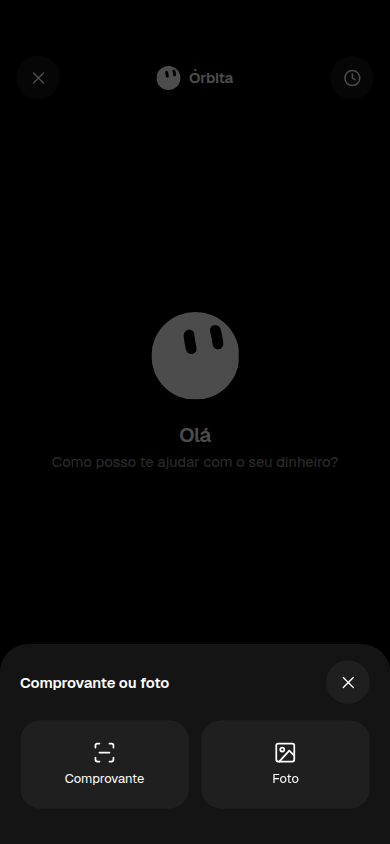
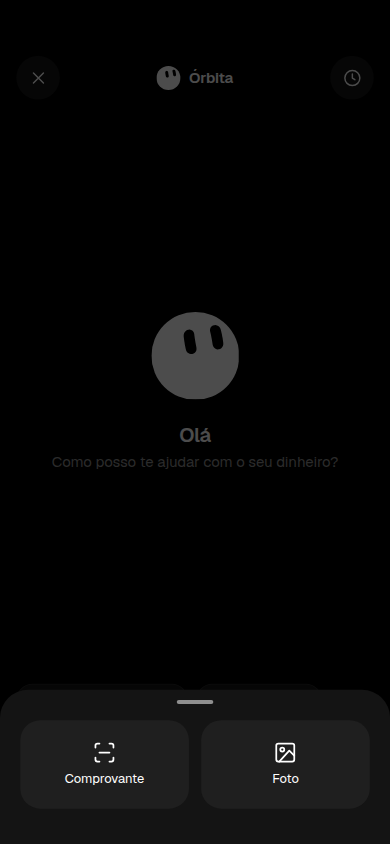
fix(mobile): a folha do chat só tem a barrinha
O X saiu. A barrinha sobe o painel ou, puxada para baixo, fecha.

Changed region(s): [[0.0308, 0.8009, 0.4308, 0.8318], [0.8308, 0.7701, 0.9538, 0.8318], [0.7077, 0.8934, 0.7692, 0.9242]]

diff --git a/apps/mobile/src/features/chat/ChatView.tsx b/apps/mobile/src/features/chat/ChatView.tsx
@@ -1,9 +1,10 @@
 import { formatBRL } from "@orbita/core";
-import { chart, colors, radius, spacing } from "@orbita/tokens";
-import { useState } from "react";
-import { Pressable, ScrollView, TextInput, View } from "react-native";
+import { chart, colors, layout, radius, spacing } from "@orbita/tokens";
+import { type ComponentRef, useCallback, useEffect, useRef, useState } from "react";
+import { Modal, Pressable, ScrollView, TextInput, View } from "react-native";
+import { useSafeAreaInsets } from "react-native-safe-area-context";
 import { percentOf } from "../../lib/format.ts";
-import { Icon, IconButton, type IconName, OrbitaAvatar, Screen, Sheet, Text } from "../../ui/index.ts";
+import { Icon, IconButton, type IconName, OrbitaAvatar, Screen, Text } from "../../ui/index.ts";
 import type { MonthRow } from "./reply.ts";
 
 const SUGGESTIONS = [
@@ -302,7 +303,15 @@ function AttachChoice({ icon, label, onPress }: { icon: IconName; label: string;
 	);
 }
 
-/** Folha de baixo. Os dois botões pedem o arquivo; o tamanho segue o anexo do Grok. */
+const SHEET_LIFT = 180;
+const SHEET_DISMISS = 72;
+
+function pageYOf(event: Event): number | null {
+	if ("pageY" in event && typeof event.pageY === "number") return event.pageY;
+	return null;
+}
+
+/** Folha de baixo, sem o X: a barrinha sobe ou desce o painel e, puxada para baixo, fecha. */
 function AttachSheet({
 	visible,
 	onClose,
@@ -312,15 +321,132 @@ function AttachSheet({
 	onClose: () => void;
 	onChoose: (kind: "receipt" | "photo") => void;
 }) {
+	const insets = useSafeAreaInsets();
+	const rest = useRef(0);
+	const [offset, setOffset] = useState(0);
+	const onCloseRef = useRef(onClose);
+	onCloseRef.current = onClose;
+	useEffect(() => {
+		if (visible) return;
+		rest.current = 0;
+		setOffset(0);
+	}, [visible]);
+	const drag = useRef({ y: 0, last: 0, time: 0, velocity: 0, active: false });
+	const begin = (pageY: number) => {
+		drag.current = { y: pageY, last: pageY, time: Date.now(), velocity: 0, active: true };
+	};
+	const slide = (pageY: number) => {
+		if (!drag.current.active) return;
+		const now = Date.now();
+		drag.current.velocity = (pageY - drag.current.last) / Math.max(1, now - drag.current.time);
+		drag.current.last = pageY;
+		drag.current.time = now;
+		setOffset(Math.min(SHEET_LIFT, rest.current - (pageY - drag.current.y)));
+	};
+	const end = () => {
+		if (!drag.current.active) return;
+		drag.current.active = false;
+		const next = rest.current - (drag.current.last - drag.current.y);
+		if (next < -SHEET_DISMISS || drag.current.velocity > 0.8) {
+			rest.current = 0;
+			setOffset(0);
+			onCloseRef.current();
+			return;
+		}
+		const settled = next > SHEET_LIFT / 2 ? SHEET_LIFT : 0;
+		rest.current = settled;
+		setOffset(settled);
+	};
+	const handlers = useRef({ begin, slide, end });
+	handlers.current = { begin, slide, end };
+	const detachDrag = useRef<(() => void) | null>(null);
+	const bindHandle = useCallback((node: ComponentRef<typeof View> | null) => {
+		detachDrag.current?.();
+		detachDrag.current = null;
+		const element = node as unknown as {
+			addEventListener?: (type: string, listener: (event: Event) => void) => void;
+			removeEventListener?: (type: string, listener: (event: Event) => void) => void;
+			ownerDocument?: {
+				addEventListener: (type: string, listener: (event: Event) => void) => void;
+				removeEventListener: (type: string, listener: (event: Event) => void) => void;
+			};
+		} | null;
+		if (!element?.addEventListener || !element.ownerDocument) return;
+		const documentNode = element.ownerDocument;
+		const down = (event: Event) => {
+			const pageY = pageYOf(event);
+			if (pageY === null) return;
+			handlers.current.begin(pageY);
+			const move = (pointer: Event) => {
+				const y = pageYOf(pointer);
+				if (y !== null) handlers.current.slide(y);
+			};
+			const up = () => {
+				documentNode.removeEventListener("pointermove", move);
+				documentNode.removeEventListener("pointerup", up);
+				handlers.current.end();
+			};
+			documentNode.addEventListener("pointermove", move);
+			documentNode.addEventListener("pointerup", up);
+		};
+		element.addEventListener("pointerdown", down);
+		detachDrag.current = () => element.removeEventListener?.("pointerdown", down);
+	}, []);
+	const lifted = Math.max(0, offset);
+	const pulled = Math.max(0, -offset);
 	return (
-		<Sheet visible={visible} title="Comprovante ou foto" onClose={onClose}>
-			<View
-				style={{ flexDirection: "row", gap: spacing.md, paddingTop: spacing.lg, paddingBottom: spacing.sm }}
-			>
-				<AttachChoice icon="escanear" label="Comprovante" onPress={() => onChoose("receipt")} />
-				<AttachChoice icon="foto" label="Foto" onPress={() => onChoose("photo")} />
+		<Modal visible={visible} transparent animationType="slide" onRequestClose={onClose} statusBarTranslucent>
+			<View style={{ flex: 1, justifyContent: "flex-end" }}>
+				<Pressable
+					accessibilityLabel="Fechar"
+					onPress={onClose}
+					style={{
+						position: "absolute",
+						top: 0,
+						left: 0,
+						right: 0,
+						bottom: 0,
+						backgroundColor: colors.background,
+						opacity: 0.7,
+					}}
+				/>
+				<View
+					accessibilityViewIsModal
+					style={{
+						backgroundColor: colors.surface,
+						borderTopLeftRadius: radius.card,
+						borderTopRightRadius: radius.card,
+						paddingHorizontal: spacing.xl,
+						paddingBottom: Math.max(insets.bottom, layout.homeIndicator),
+						transform: [{ translateY: pulled - lifted }],
+					}}
+				>
+					<View
+						ref={bindHandle}
+						accessibilityRole="adjustable"
+						accessibilityLabel="Mover a folha"
+						onTouchStart={(event) => begin(event.nativeEvent.pageY)}
+						onTouchMove={(event) => slide(event.nativeEvent.pageY)}
+						onTouchEnd={end}
+						onTouchCancel={end}
+						style={{ alignItems: "center", paddingTop: 10, paddingBottom: spacing.lg }}
+					>
+						<View
+							style={{
+								width: 36,
+								height: 4,
+								borderRadius: radius.pill,
+								backgroundColor: colors.textSecondary,
+							}}
+						/>
+					</View>
+					<View style={{ flexDirection: "row", gap: spacing.md, paddingBottom: spacing.sm }}>
+						<AttachChoice icon="escanear" label="Comprovante" onPress={() => onChoose("receipt")} />
+						<AttachChoice icon="foto" label="Foto" onPress={() => onChoose("photo")} />
+					</View>
+				</View>
 			</View>
-		</Sheet>
+		</Modal>
 	);
 }
 
